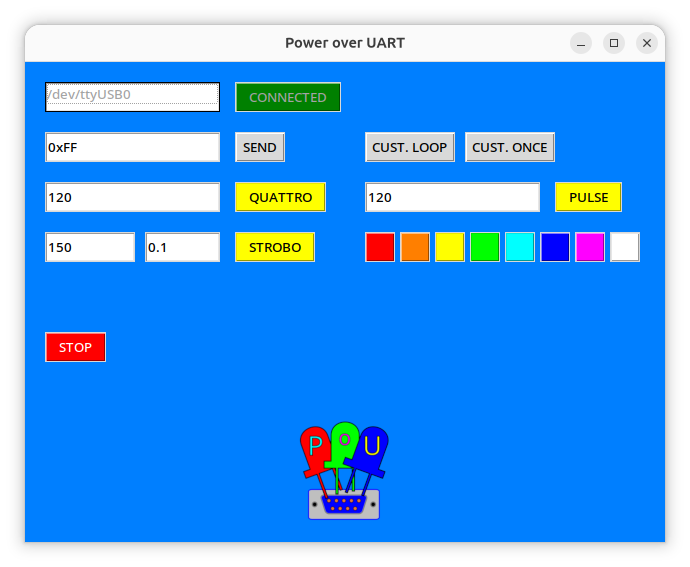
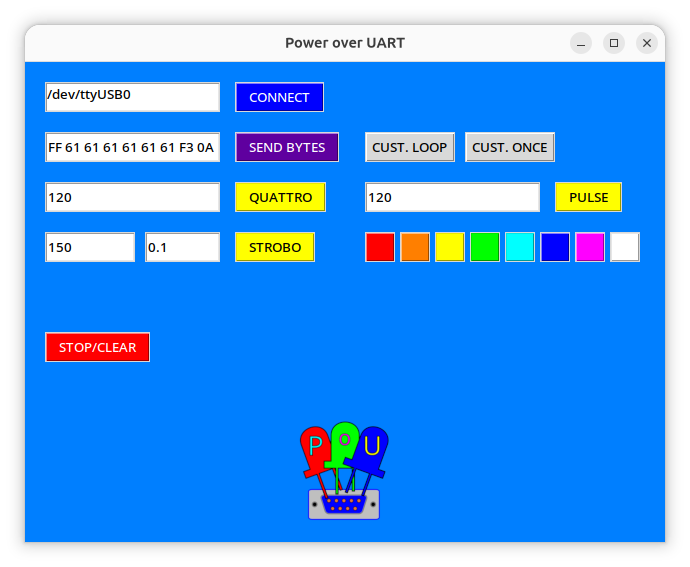
Send byte function improvements

diff --git a/PoU.py b/PoU.py
@@ -1,0 +1,351 @@
+#!/usr/bin/python3
+
+import sys,os
+import time
+from time import sleep
+from tkinter import *
+from tkinter import messagebox
+from PIL import Image, ImageTk
+import tkinter as tk
+import serial
+from serial.tools import list_ports as serLP
+from multiprocessing import Process, Value, Array, Pool
+
+# CUSTOM WAIT
+def waitUntil(target_ts):
+	while(time.time()<target_ts):
+		sleep(0.0005) # 1ms resolution
+
+# SERIAL CONNECT	
+def ttyConnect():
+	global entr_tty
+	global tty_obj
+	tty_obj=None
+	global lsTTY
+	local_stat = 0
+	serID=entr_tty.curselection()
+	serTarget=lsTTY[serID[0]]
+	try:
+		tty_obj = serial.Serial(serTarget, baudrate=115200, writeTimeout = 0)
+	except:
+		local_stat = 1
+		butt_tty.configure(bg="red")
+		butt_tty.configure(text="ERROR")
+		print("ERROR connecting to "+serTarget)
+	if(local_stat==0):
+		butt_tty.configure(bg="green")
+		butt_tty.configure(text="CONNECTED")
+		butt_tty.configure(state=DISABLED)
+		entr_tty.configure(state=DISABLED)
+		print("CONNECTED to "+serTarget)
+
+def ttySend():
+	global entr_byte
+	global tty_obj
+	global pt
+	if(pt!=None):
+		flagStop()
+	tty_arr = []
+	try:
+		arr_str=(entr_byte.get()).split(" ")
+		for sframe in arr_str:
+			tty_arr+=[int(sframe,16)]
+		try:
+			tty_obj.write(tty_arr)
+		except Exception as e:
+			messagebox.showerror("Serial ERROR","Exception: "+repr(e),parent=rootW)
+	except Exception as e:
+		messagebox.showerror("Format ERROR","Exception: "+repr(e),parent=rootW)
+
+def ttyStroboP(): # Strobo wrapper
+	global pt
+	if(pt!=None):
+		flagStop()
+	pt = Process(target=ttyStrobo)
+	pt.start()
+	
+def ttyStrobo():
+	global pt
+	import serial
+	tty_arr0 = [0xFF,0x60,0xF3,0x0A]
+	tty_arr1 = [0xFF,0x6F,0xF3,0x0A]
+	tsleep = int(entr_strobo.get())/1000
+	tsleepH = tsleep*float(entr_stroboT.get())
+	tsleepL = tsleep-tsleepH
+	target_ts=time.time()
+	while(True):
+		tty_obj.write(tty_arr1)
+		target_ts+=tsleepH
+		waitUntil(target_ts)
+		tty_obj.write(tty_arr0)
+		target_ts+=tsleepL
+		waitUntil(target_ts)
+
+def ttyCseqP(): # Organizer wrapper Loop
+	global pt
+	global pt
+	if(pt!=None):
+		flagStop()
+	pt = Process(target=ttyCseq)
+	pt.start()
+
+def ttyCseq():
+	import serial
+	global isset_org
+	target_ts=time.time()
+	while(True):
+		for istr in isset_org:
+			if(istr[0]==1):
+				tty_obj.write(istr[1])
+			if(istr[0]==2):
+				target_ts+=(istr[1]/1000)
+				waitUntil(target_ts)
+
+def ttyCseqOnceP(): # Organizer wrapper Once
+	global pt
+	if(pt!=None):
+		flagStop()
+	pt = Process(target=ttyCseqOnce)
+	pt.start()
+
+def ttyCseqOnce():
+	import serial
+	global pt
+	global isset_org
+	target_ts=time.time()
+	for istr in isset_org:
+		if(istr[0]==1):
+			tty_obj.write(istr[1])
+		if(istr[0]==2):
+			target_ts+=(istr[1]/1000)
+			waitUntil(target_ts)
+
+def ttyQuattroP(): # unDostres4 wrapper
+	global pt
+	if(pt!=None):
+		flagStop()
+	pt = Process(target=ttyQuattro)
+	pt.start()
+	
+def ttyQuattro():
+	import serial
+	tty_arr = [0xFF,0xFC,0x60,0x60,0x60,0x60,0xF3,0x0A]
+	tsleep = 60/float(entr_quattro.get())
+	target_ts=time.time()
+	while(True):
+		tty_arr = [0xFF,0xFC,0x6F,0x60,0x60,0x60,0xF3,0x0A]
+		tty_obj.write(tty_arr)
+		target_ts+=tsleep
+		#sleep(tsleep)
+		waitUntil(target_ts)
+		tty_arr = [0xFF,0xFC,0x60,0x6F,0x60,0x60,0xF3,0x0A]
+		tty_obj.write(tty_arr)
+		target_ts+=tsleep
+		#sleep(tsleep)
+		waitUntil(target_ts)
+		tty_arr = [0xFF,0xFC,0x60,0x60,0x6F,0x60,0xF3,0x0A]
+		tty_obj.write(tty_arr)
+		target_ts+=tsleep
+		#sleep(tsleep)
+		waitUntil(target_ts)
+		tty_arr = [0xFF,0xFC,0x60,0x60,0x60,0x6F,0xF3,0x0A]
+		tty_obj.write(tty_arr)
+		target_ts+=tsleep
+		#sleep(tsleep)
+		waitUntil(target_ts)
+
+def ttyPulseP(): # Pulse wrapper
+	global pt
+	if(pt!=None):
+		flagStop()
+	pt = Process(target=ttyPulse)
+	pt.start()
+
+def ttyPulse():
+	target_ts=time.time()
+	global pt
+	import serial
+	tty_arr = [0xFF,0x60,0xF3,0x0A]
+	tsleep = 60/float(entr_pulse.get())
+	tsleepOn=0.1*tsleep
+	tsleepOff=0.9*tsleep
+	while(True):
+		tty_arr = [0xFF,0x6F,0xF3,0x0A]
+		tty_obj.write(tty_arr)
+		target_ts+=tsleepOn
+		waitUntil(target_ts)
+		tty_arr = [0xFF,0x60,0xF3,0x0A]
+		tty_obj.write(tty_arr)
+		target_ts+=tsleepOff
+		waitUntil(target_ts)
+
+def ttySetL(arrVal):
+	global pt
+	if(pt!=None):
+		flagStop()
+	arrData = arrVal.copy()
+	v256=[]
+	for idx in range(0, len(arrData)):
+		p1=arrData[idx]//16
+		p2=arrData[idx]-p1*16
+		p1+=0x90
+		p2+=0x90
+		v256+=[p1,p2]
+	try:
+		tty_obj.write([0xFF]+v256+[0xF3,0x0A])
+	except Exception as e:
+		messagebox.showerror("Serial ERROR","Exception: "+repr(e),parent=rootW)
+
+### STOP PROCEDURE ###
+def flagStop():
+	global pt
+	if(pt!=None):
+		pt.terminate()
+		pt=None
+	else:
+		print("debug: no process running")
+	# NOTE: The leading '0x0A' character is used to force exit from any incomplete previous serial stream
+	tty_arr = [0x0A,0xFF,0x60,0x60,0x60,0x60,0x60,0x60,0xF3,0x0A]
+	try:
+		tty_obj.write(tty_arr)
+	except Exception as e:
+		messagebox.showerror("Serial ERROR","Exception: "+repr(e),parent=rootW)
+	print("debug: STOP")
+
+# Default settings
+global pt
+pt = None
+relpath=os.path.dirname(sys.argv[0])
+
+# LOAD CUSTOM ORGANIZER
+global isset_org
+isset_org = []
+rcnt=0
+try:
+	orgpath = relpath+"/scheduler.ls"
+	fobj = open(orgpath, "r")
+	for orow in fobj:
+		rcnt+=1
+		oargs = orow.rstrip().split(" ")
+		if(oargs[0]=="SEND"):
+			seqb = []
+			nseq = len(oargs)
+			for i in range(1,nseq):
+				seqb+=[int(oargs[i],16)]
+			sset=(1,seqb)
+			isset_org+=[sset]
+		elif(oargs[0]=="WAIT"):
+			sset=(2,float(oargs[1]))
+			isset_org+=[sset]
+		else:
+			raise Exception("Token not valid")
+except Exception as e:
+	messagebox.showerror("Organizer Load ERROR","Row: "+str(rcnt)+"\nException: "+repr(e))
+
+# MAIN WINDOW
+global rootW
+rootW = tk.Tk()
+imglogo128=relpath+"/logo.png"
+rootW.geometry("640x480")
+rootW.title("Power over UART")
+rootW.configure(bg='#007FFF')
+try:
+	imgF = Image.open(imglogo128)
+	imgO = ImageTk.PhotoImage(imgF)
+	imgL = tk.Label(rootW, image = imgO, bd = 0)
+	imgL.place(x=256,y=350)
+except Exception as e:
+	messagebox.showerror("Logo Load ERROR","Exception: "+repr(e),parent=rootW)
+	
+
+# SECTION 1.1 : SERIAL
+global lsTTY
+lsTTY = []
+for serOBJ in serLP.comports():
+	if(serOBJ.hwid!="n/a"):
+		lsTTY.append(serOBJ.device)
+global entr_tty
+entr_tty = tk.Listbox(rootW, selectmode=SINGLE, height=len(lsTTY))
+for seritem in lsTTY:
+	entr_tty.insert(END, seritem)
+entr_tty.place(x=20,y=20,h=30,w=175)
+global butt_tty
+butt_tty = tk.Button(rootW,text="CONNECT",bg="#0000FF",fg="white",command=ttyConnect)
+tk.Button(rootW,text="ERROR",bg="#FF0000",fg="white",command=ttyConnect)
+butt_tty.place(x=210,y=20,h=30)
+
+# SECTION 1.2 : SET ADDR (BROADCAST!)
+
+
+# SECTION 2.1 : SEND BYTE STREAM
+global byte_user
+byte_user = StringVar(rootW, value="FF 61 61 61 61 61 61 F3 0A")
+global entr_byte
+entr_byte = tk.Entry(rootW, textvariable = byte_user)
+entr_byte.place(x=20,y=70,h=30,w=175)
+butt_byte = tk.Button(rootW,text="SEND BYTES",bg="#5F009F",fg="white",command=ttySend)
+butt_byte.place(x=210,y=70,h=30)
+
+# SECTION 2.2 A : SEND CUSTOM SEQUENCE LOOP
+butt_cseq = tk.Button(rootW,text="CUST. LOOP",command=ttyCseqP)
+butt_cseq.place(x=340,y=70,h=30,w=90)
+# SECTION 2.2 B : SEND CUSTOM SEQUENCE ONCE
+butt_cseq = tk.Button(rootW,text="CUST. ONCE",command=ttyCseqOnceP)
+butt_cseq.place(x=440,y=70,h=30,w=90)
+
+# SECTION 3.1 : BPM 1-2-3-4
+global quattro_user
+quattro_user = StringVar(rootW, value="120")
+global entr_quattro
+entr_quattro = tk.Entry(rootW, textvariable = quattro_user)
+entr_quattro.place(x=20,y=120,h=30,w=175)
+butt_quattro = tk.Button(rootW,text="QUATTRO",command=ttyQuattroP,bg="yellow")
+butt_quattro.place(x=210,y=120,h=30)
+
+# SECTION 3.2 : BPM Pulse
+global pulse_user
+pulse_user = StringVar(rootW, value="120")
+global entr_pulse
+entr_pulse = tk.Entry(rootW, textvariable = pulse_user)
+entr_pulse.place(x=340,y=120,h=30,w=175)
+butt_pulse = tk.Button(rootW,text="PULSE",command=ttyPulseP,bg="yellow")
+butt_pulse.place(x=530,y=120,h=30)
+
+# SECTION 4.1 : STROBO ms
+global strobo_user
+strobo_user = StringVar(rootW, value="150")
+global stroboT_user
+stroboT_user = StringVar(rootW, value="0.1")
+global entr_strobo
+entr_strobo = tk.Entry(rootW, textvariable = strobo_user)
+entr_strobo.place(x=20,y=170,h=30,w=90)
+global entr_stroboT
+entr_stroboT = tk.Entry(rootW, textvariable = stroboT_user)
+entr_stroboT.place(x=120,y=170,h=30,w=75)
+butt_strobo = tk.Button(rootW,text="STROBO",command=ttyStroboP,bg="yellow")
+butt_strobo.place(x=210,y=170,h=30)
+
+# SECTION 4.2 : MISC COLORS
+butt_miscR = tk.Button(rootW,command=lambda: ttySetL([0,255,0,0,0]),bg="#FF0000")
+butt_miscR.place(x=340,y=170,h=30,w=30)
+butt_miscO = tk.Button(rootW,command=lambda: ttySetL([0,255,0,0,255]),bg="#FF7F00")
+butt_miscO.place(x=375,y=170,h=30,w=30)
+butt_miscY = tk.Button(rootW,command=lambda: ttySetL([0,255,127,0,255]),bg="#FFFF00")
+butt_miscY.place(x=410,y=170,h=30,w=30)
+butt_miscG = tk.Button(rootW,command=lambda: ttySetL([0,0,255,0,0]),bg="#00FF00")
+butt_miscG.place(x=445,y=170,h=30,w=30)
+butt_miscC = tk.Button(rootW,command=lambda: ttySetL([0,0,255,255,0]),bg="#00FFFF")
+butt_miscC.place(x=480,y=170,h=30,w=30)
+butt_miscB = tk.Button(rootW,command=lambda: ttySetL([0,0,0,255,0]),bg="#0000FF")
+butt_miscB.place(x=515,y=170,h=30,w=30)
+butt_miscV = tk.Button(rootW,command=lambda: ttySetL([0,255,0,127,0]),bg="#FF00FF")
+butt_miscV.place(x=550,y=170,h=30,w=30)
+butt_miscW = tk.Button(rootW,command=lambda: ttySetL([255,255,255,255,255]),bg="#FFFFFF")
+butt_miscW.place(x=585,y=170,h=30,w=30)
+
+# SECTION -1 : STOP
+butt_stop = tk.Button(rootW,text="STOP/CLEAR",command=flagStop,fg='white',bg='red')
+butt_stop.place(x=20,y=270,h=30)
+
+
+rootW.mainloop()
